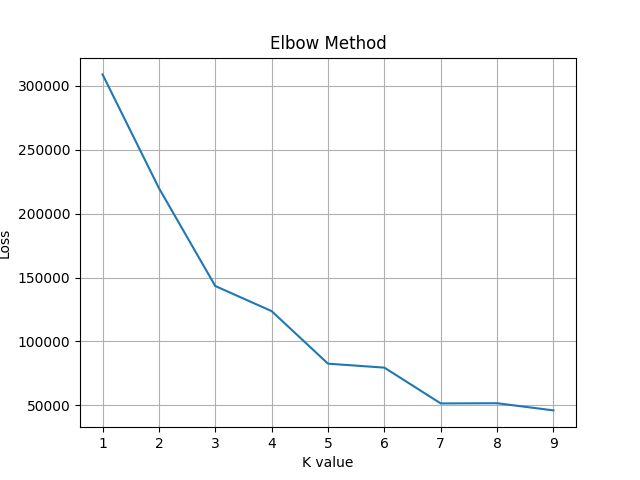
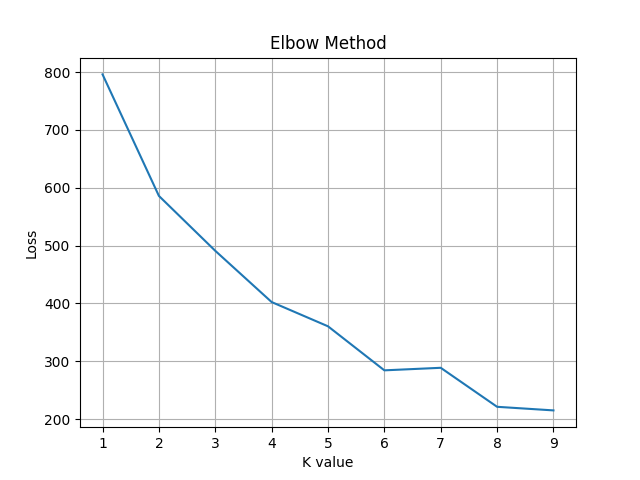
Normalize Data

diff --git a/main.py b/main.py
@@ -53,6 +53,10 @@ if __name__ == "__main__":
     data.Gender = data.Gender.map(lambda x : 0 if x == "Male" else 1)
     # Remove the first Column
     data = data.iloc[:,1:]
+
+    # normalize data 
+    data = (data - data.mean())/data.std()
+    dataset = data
     # Coonvert data to numpy before calling the kmeans Algorithm
     data = data.to_numpy()
     
